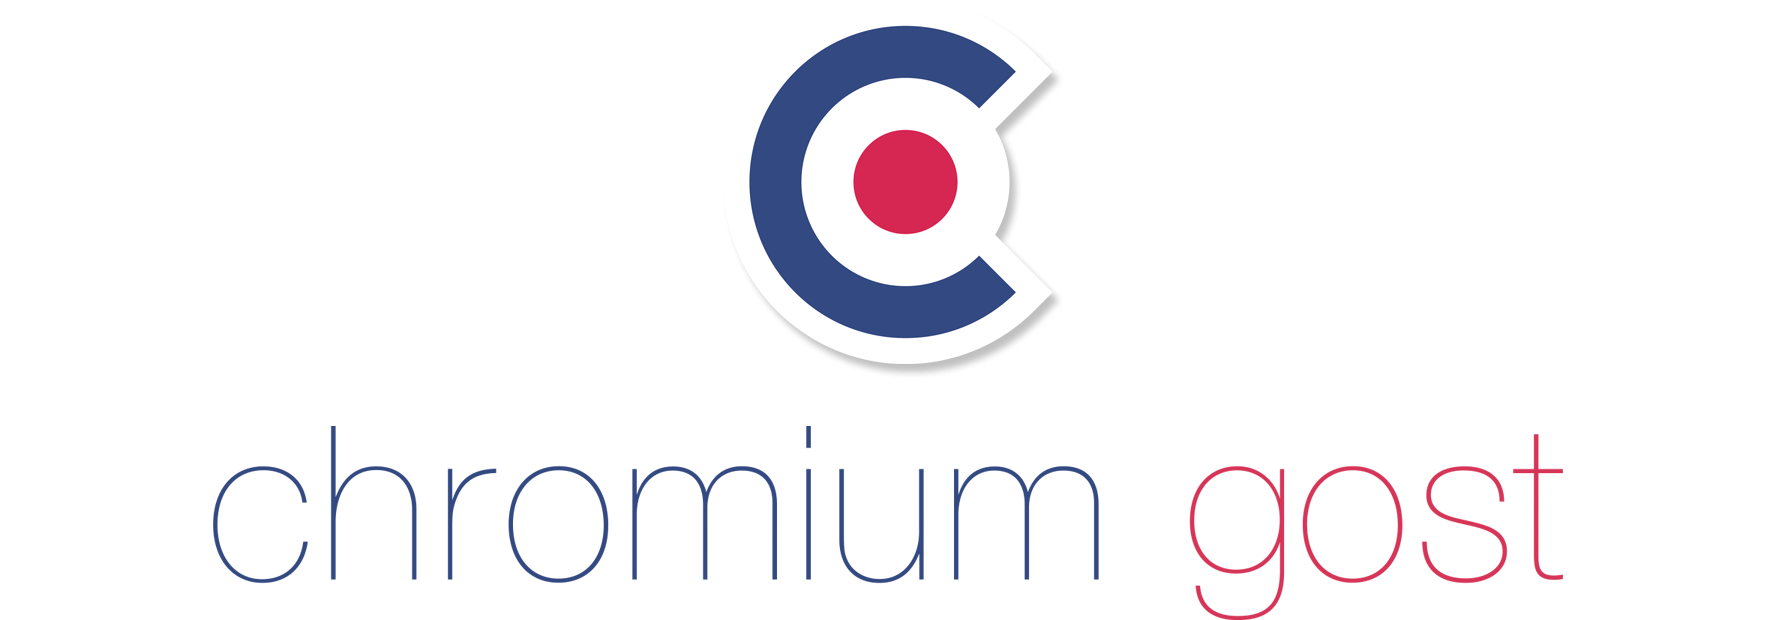
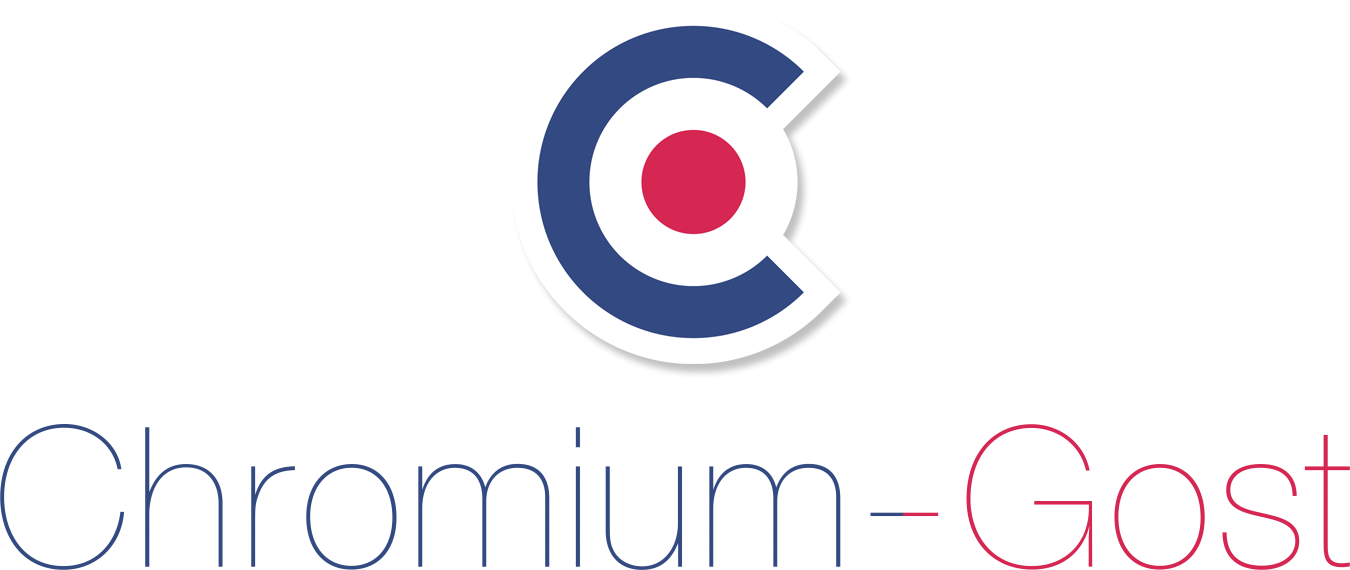
Chromium-Gost

diff --git a/README.md b/README.md
@@ -2,18 +2,18 @@
   <img src="extra/chromium-gost-header.png"/>
 </h3>
 
-# chromium-gost 
+# Chromium-Gost
 
-[![version](https://img.shields.io/github/release/deemru/chromium-gost.svg)](https://github.com/deemru/chromium-gost/releases/latest)
-[![windows](https://img.shields.io/badge/windows-supported-brightgreen.svg)](https://github.com/deemru/chromium-gost/releases/latest)
-[![linux](https://img.shields.io/badge/linux-supported-brightgreen.svg)](https://github.com/deemru/chromium-gost/releases/latest)
-[![macos](https://img.shields.io/badge/macos-supported-brightgreen.svg)](https://github.com/deemru/chromium-gost/releases/latest)
-[![downloads](https://img.shields.io/github/downloads/deemru/chromium-gost/total)](https://github.com/deemru/chromium-gost/releases/latest)
+[![version](https://img.shields.io/github/release/deemru/Chromium-Gost.svg)](https://github.com/deemru/Chromium-Gost/releases/latest)
+[![windows](https://img.shields.io/badge/windows-supported-brightgreen.svg)](https://github.com/deemru/Chromium-Gost/releases/latest)
+[![linux](https://img.shields.io/badge/linux-supported-brightgreen.svg)](https://github.com/deemru/Chromium-Gost/releases/latest)
+[![macos](https://img.shields.io/badge/macos-supported-brightgreen.svg)](https://github.com/deemru/Chromium-Gost/releases/latest)
+[![downloads](https://img.shields.io/github/downloads/deemru/Chromium-Gost/total)](https://github.com/deemru/Chromium-Gost/releases/latest)
 
-[chromium-gost](https://github.com/deemru/chromium-gost) — веб-браузер с открытым исходным кодом на основе [Chromium](https://ru.wikipedia.org/wiki/Chromium) с поддержкой криптографических алгоритмов ГОСТ при установке [защищённых соединений](https://ru.wikipedia.org/wiki/TLS) через интерфейс [msspi](https://github.com/deemru/msspi)
+[Chromium-Gost](https://github.com/deemru/Chromium-Gost) — веб-браузер с открытым исходным кодом на основе [Chromium](https://ru.wikipedia.org/wiki/Chromium) с поддержкой криптографических алгоритмов ГОСТ при установке [защищённых соединений](https://ru.wikipedia.org/wiki/TLS) через интерфейс [msspi](https://github.com/deemru/msspi)
 
-# [Скачать](https://github.com/deemru/chromium-gost/releases/latest)
-[chromium-gost](https://github.com/deemru/chromium-gost) доступен для операционных систем Windows, Linux и MacOS. Вы можете скачать соответствующий дистрибутив в [chromium-gost/releases/latest](https://github.com/deemru/chromium-gost/releases/latest)
+# [Скачать](https://github.com/deemru/Chromium-Gost/releases/latest)
+[Chromium-Gost](https://github.com/deemru/Chromium-Gost) доступен для операционных систем Windows, Linux и MacOS. Вы можете скачать соответствующий дистрибутив в [Chromium-Gost/releases/latest](https://github.com/deemru/Chromium-Gost/releases/latest)
 
 # Принцип работы
 
@@ -33,10 +33,10 @@
 
 # Сборка
 
-[![appveyor](https://img.shields.io/appveyor/ci/deemru/chromium-gost.svg?label=appveyor)](https://ci.appveyor.com/project/deemru/chromium-gost)
+[![appveyor](https://img.shields.io/appveyor/ci/deemru/Chromium-Gost.svg?label=appveyor)](https://ci.appveyor.com/project/deemru/Chromium-Gost)
 
 - Освоить сборку оригинального проекта [Chromium](https://chromium.googlesource.com/chromium/src/+/master/docs/README.md) — [Get the code: check out, build, and run Chromium]( https://chromium.googlesource.com/chromium/src/+/master/docs/get_the_code.md)
-- Извлечь [chromium-gost](https://github.com/deemru/chromium-gost)
+- Извлечь [Chromium-Gost](https://github.com/deemru/Chromium-Gost)
 - Использовать скрипты из `build_linux`, `build_mac` или `build_windows`
 - Скорректировать пути — `chromium-gost-env`
 - Подготовить сборку — `chromium-gost-prepare`
